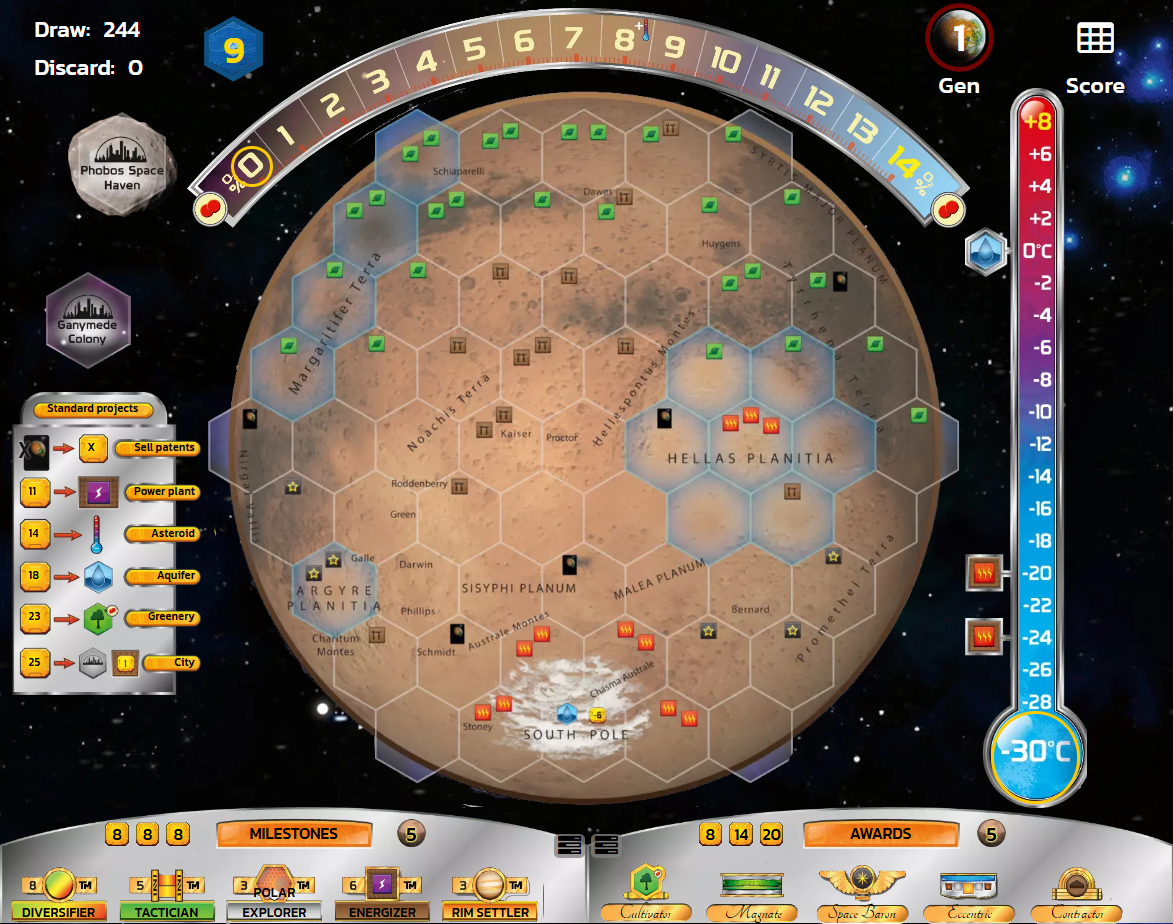
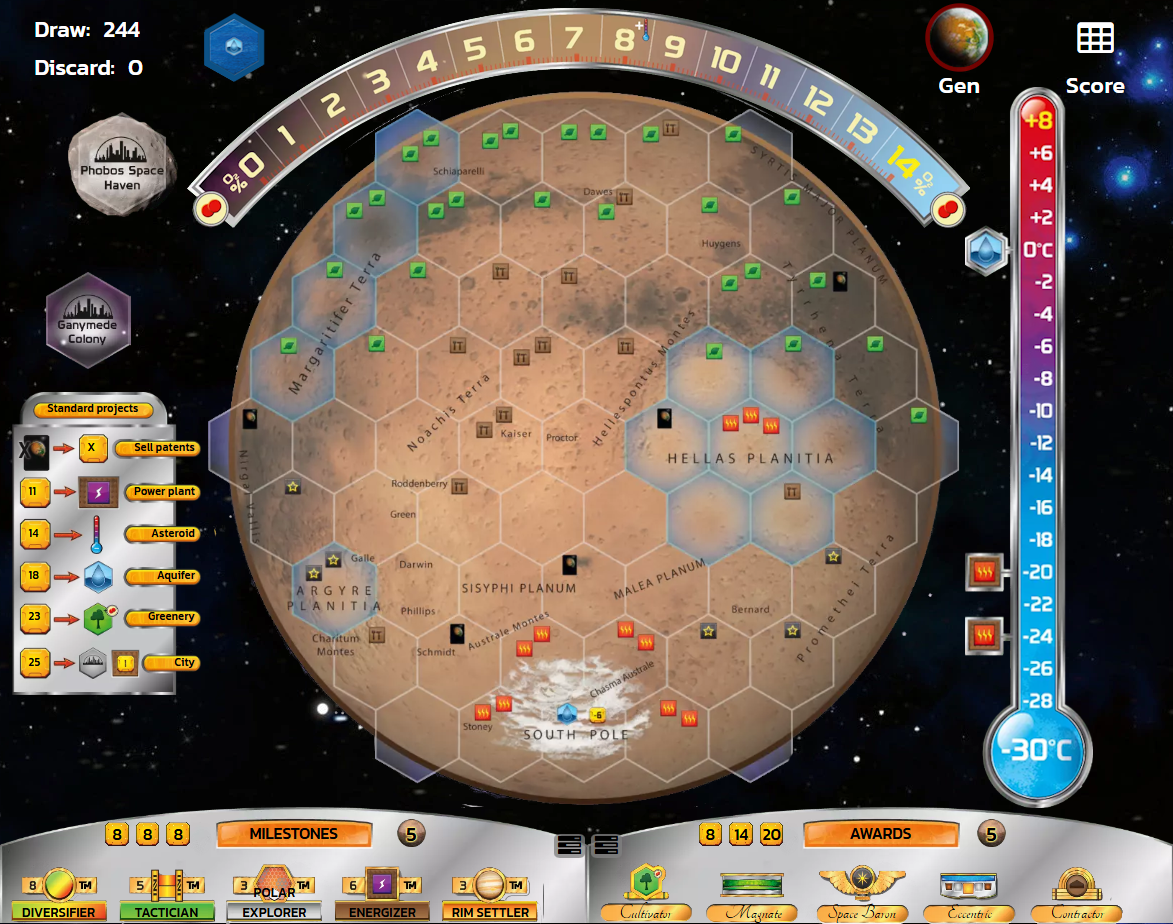
Map Hellas map coordinates for trackers

diff --git a/web/src/data/mapOverlays.ts b/web/src/data/mapOverlays.ts
@@ -111,6 +111,81 @@ const overlays: Record<string, MapOverlays> = {
       { name: 'Miner', cx: 1076, cy: 889 },
     ],
   },
+  Hellas: {
+    offMapTiles: [
+      { name: 'Phobos Space Haven', tileType: 'city', cx: 121, cy: 163 },
+      { name: 'Ganymede Colony', tileType: 'city', cx: 89, cy: 321 },
+    ],
+    trackers: [
+      { key: 'oceans', cx: 234, cy: 47 },
+      { key: 'generation', cx: 960, cy: 35 },
+    ],
+    cubeTrackers: [
+      {
+        key: 'oxygen',
+        minValue: 0,
+        step: 1,
+        positions: [
+          { cx: 248, cy: 170 }, // 0%
+          { cx: 284, cy: 140 }, // 1%
+          { cx: 330, cy: 110 }, // 2%
+          { cx: 376, cy: 84 },  // 3%
+          { cx: 424, cy: 67 },  // 4%
+          { cx: 475, cy: 52 },  // 5%
+          { cx: 524, cy: 46 },  // 6%
+          { cx: 572, cy: 42 },  // 7%
+          { cx: 623, cy: 44 },  // 8%
+          { cx: 673, cy: 51 },  // 9%
+          { cx: 723, cy: 64 },  // 10%
+          { cx: 768, cy: 81 },  // 11%
+          { cx: 816, cy: 104 }, // 12%
+          { cx: 861, cy: 133 }, // 13%
+          { cx: 901, cy: 166 }, // 14%
+        ],
+      },
+      {
+        key: 'temperature',
+        minValue: -30,
+        step: 2,
+        positions: [
+          { cx: 1040, cy: 753 }, // -30°C
+          { cx: 1040, cy: 706 }, // -28°C
+          { cx: 1040, cy: 674 }, // -26°C
+          { cx: 1040, cy: 642 }, // -24°C
+          { cx: 1040, cy: 608 }, // -22°C
+          { cx: 1040, cy: 577 }, // -20°C
+          { cx: 1040, cy: 545 }, // -18°C
+          { cx: 1040, cy: 512 }, // -16°C
+          { cx: 1040, cy: 480 }, // -14°C
+          { cx: 1040, cy: 448 }, // -12°C
+          { cx: 1040, cy: 416 }, // -10°C
+          { cx: 1040, cy: 383 }, // -8°C
+          { cx: 1040, cy: 352 }, // -6°C
+          { cx: 1040, cy: 319 }, // -4°C
+          { cx: 1040, cy: 287 }, // -2°C
+          { cx: 1040, cy: 254 }, // 0°C
+          { cx: 1040, cy: 222 }, // +2°C
+          { cx: 1040, cy: 189 }, // +4°C
+          { cx: 1040, cy: 158 }, // +6°C
+          { cx: 1040, cy: 125 }, // +8°C
+        ],
+      },
+    ],
+    milestones: [
+      { name: 'Diversifier', cx: 60, cy: 884 },
+      { name: 'Tactician', cx: 166, cy: 884 },
+      { name: 'Polar Explorer', cx: 277, cy: 884 },
+      { name: 'Energizer', cx: 383, cy: 884 },
+      { name: 'Rim Settler', cx: 493, cy: 884 },
+    ],
+    awards: [
+      { name: 'Cultivator', cx: 648, cy: 884 },
+      { name: 'Magnate', cx: 756, cy: 884 },
+      { name: 'Space Baron', cx: 865, cy: 884 },
+      { name: 'Eccentric', cx: 973, cy: 884 },
+      { name: 'Contractor', cx: 1081, cy: 884 },
+    ],
+  },
 };
 
 export function getMapOverlays(mapName: string): MapOverlays {

diff --git a/web/src/pages/GameReplayPage.tsx b/web/src/pages/GameReplayPage.tsx
@@ -149,14 +149,27 @@ export function GameReplayPage() {
   const offMapTiles = useMemo(() => {
     if (!mapDefinition) return [] as PlacedTile[];
     const hexKeys = new Set(mapDefinition.hexes.map(h => h.dbKey));
-    // Tiles rendered on the map image (e.g. Phobos/Ganymede on Tharsis) are not "off-map"
-    const renderedOffMap = new Set<string>();
-    if (mapDefinition.name === 'Tharsis') {
-      renderedOffMap.add('Phobos Space Haven');
-      renderedOffMap.add('Ganymede Colony');
-    }
+    const overlays = getMapOverlays(mapDefinition.name);
+    const renderedOffMap = new Set(overlays.offMapTiles?.map(t => t.name) ?? []);
     return Array.from(placedTiles.values()).filter(t => !hexKeys.has(t.dbKey) && !renderedOffMap.has(t.dbKey));
   }, [placedTiles, mapDefinition]);
+
+  const { claimedMilestones, fundedAwards } = useMemo(() => {
+    const claimed = new Map<string, string>();
+    const funded = new Map<string, string>();
+    if (!gameLog) return { claimedMilestones: claimed, fundedAwards: funded };
+    for (let i = 0; i <= currentStep; i++) {
+      const move = gameLog.moves[i];
+      if (move.action_type === 'claim_milestone') {
+        const match = move.description.match(/claims milestone (.+?)(?:\s*\||\s*$)/i);
+        if (match) claimed.set(match[1].trim().toUpperCase(), move.player_id);
+      } else if (move.action_type === 'fund_award') {
+        const match = move.description.match(/funds (.+?) award/i);
+        if (match) funded.set(match[1].trim().toLowerCase(), move.player_id);
+      }
+    }
+    return { claimedMilestones: claimed, fundedAwards: funded };
+  }, [gameLog, currentStep]);
 
   const generationBoundaries = useMemo(() => {
     if (!gameLog) return new Map<number, { start: number; end: number }>();
@@ -401,6 +414,9 @@ export function GameReplayPage() {
               placedTiles={placedTiles}
               playerColors={playerColors}
               currentStep={currentStep}
+              gameState={gameState}
+              claimedMilestones={claimedMilestones}
+              fundedAwards={fundedAwards}
             />
           ) : (
             <div className="glass-panel rounded-xl p-8 text-center text-slate-400">
